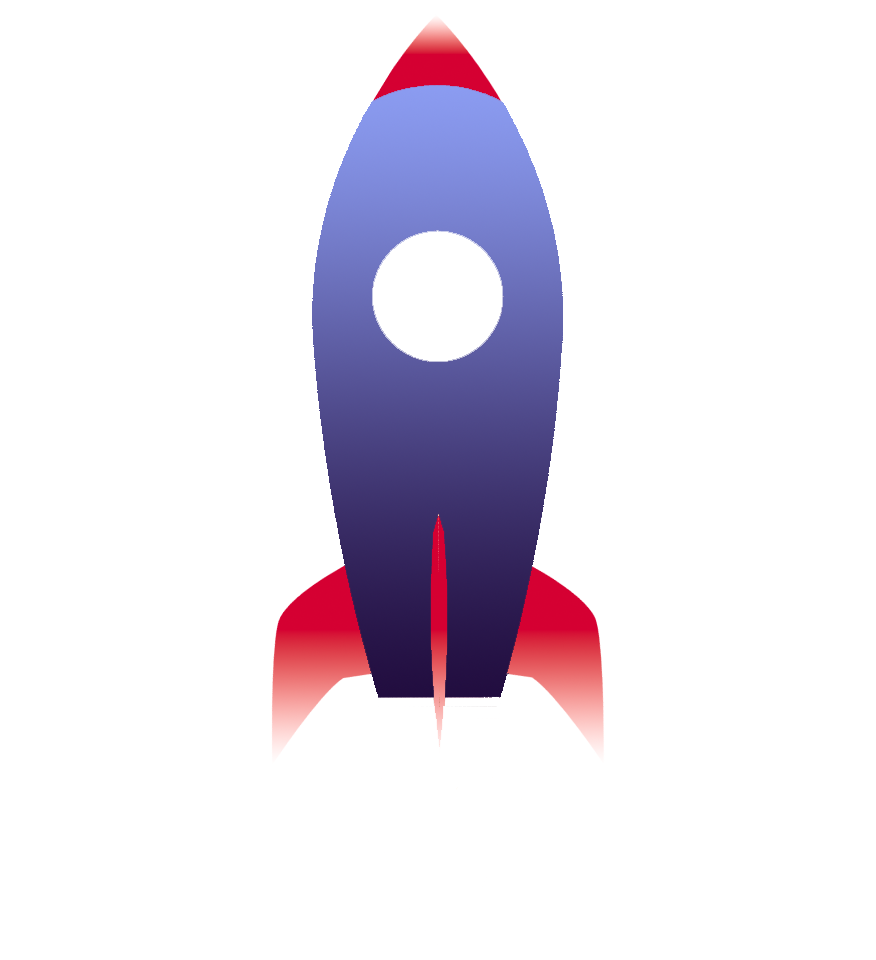
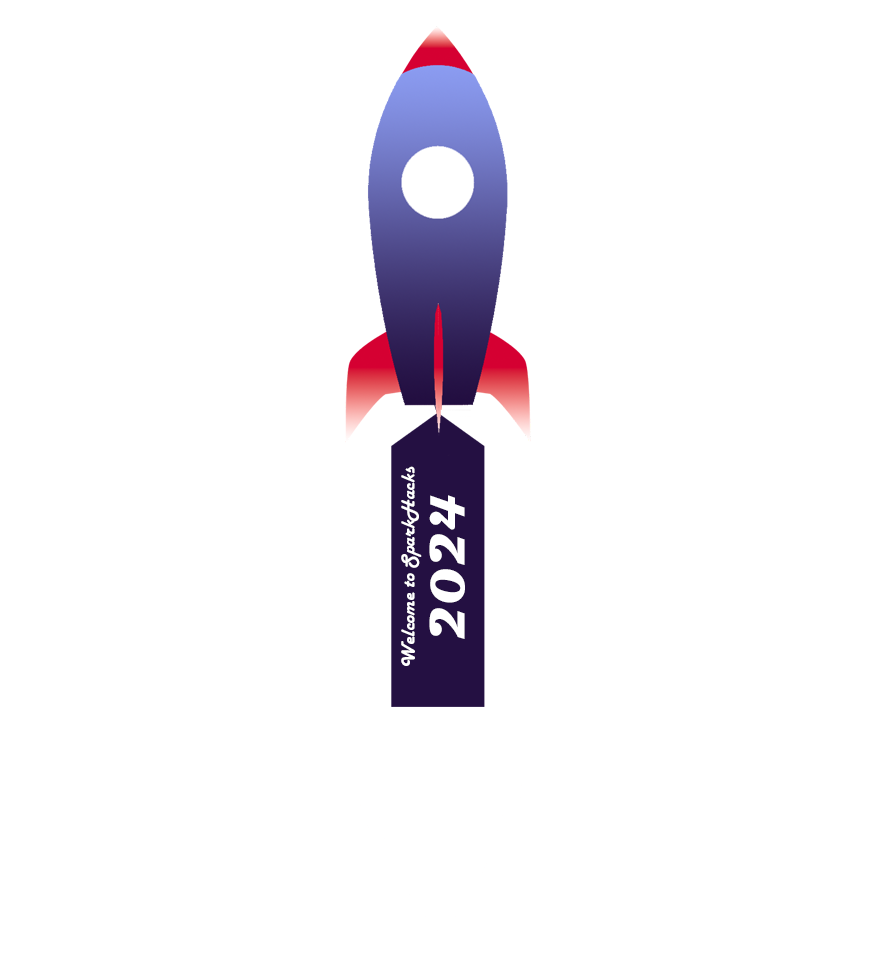
Update rocket animation and image

Changed region(s): [[0.3082, 0.0, 0.7089, 0.7812]]

diff --git a/src/components/header.jsx b/src/components/header.jsx
@@ -56,10 +56,10 @@ export default function Headers() {
       >
         <motion.div
         initial={{y: 0}}
-        whileInView={{y:-50}}
+        whileInView={{y:-290}}
         transition={{ duration: 2 }}
         className={`absolute -top-36  ${isMenuOpen ? 'block ' : 'hidden '}`}>
-          <img src={Rockets.src} className="w-[200px] h-[200px]"></img>
+          <img src={Rockets.src} className="w-[500px] h-[500px]"></img>
         </motion.div>
         
         
